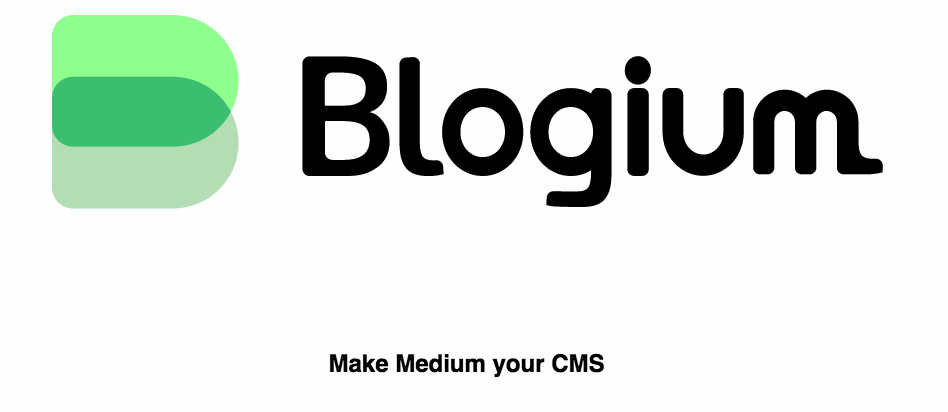
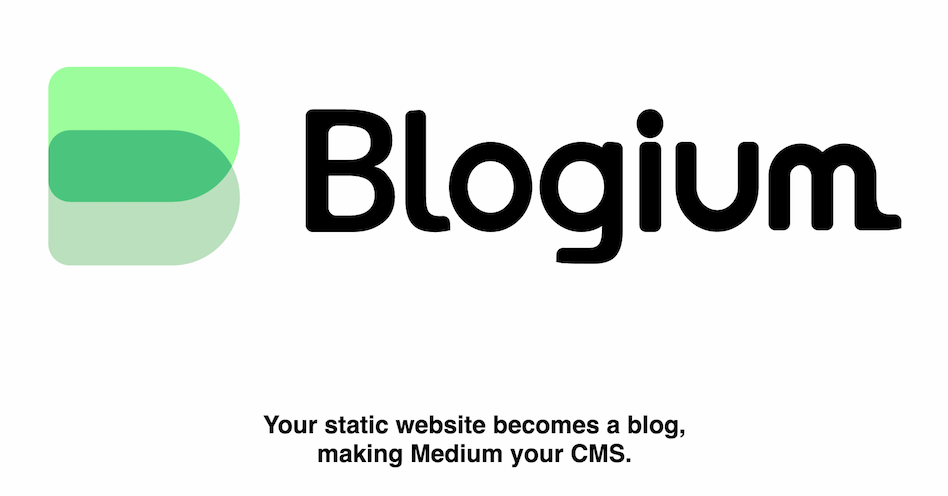
add post link, add fork btn and download, update facebook.png

Changed region(s): [[0.3059, 0.1165, 0.9483, 0.5534], [0.0306, 0.0291, 0.2753, 0.5534], [0.2753, 0.8155, 0.7342, 0.9612]]

diff --git a/index.html b/index.html
@@ -4,12 +4,6 @@
   <meta charset="UTF-8">
   <title>Blogium</title>
 
-  <link rel="shortcut icon" href="assets/images/blogium.ico" type="image/x-icon">
-  <link rel="stylesheet" href="assets/styles/main.css">
-  <link href="bower_components/prism/themes/prism-okaidia.css" rel="stylesheet" />
-
-  <script async defer src="https://buttons.github.io/buttons.js"></script>
-  <script async defer src="bower_components/prism/prism.js"></script>
   <meta name="viewport" content="width=device-width, initial-scale=1">
   <meta name="description" content="With one script you can have your personal blog, with responsive edtior dashboard and SEO optimized. Add Blogium to your stack and turn Medium into your personal CMS.">
 
@@ -18,6 +12,12 @@
   <meta property="og:url" content="https://atilafassina.github.io/blogium/">
   <meta property="og:image" content="https://atilafassina.github.io/blogium/assets/images/facebook.png">
 
+  <link rel="shortcut icon" href="assets/images/blogium.ico" type="image/x-icon">
+  <link rel="stylesheet" href="assets/styles/main.css">
+  <link href="bower_components/prism/themes/prism-okaidia.css" rel="stylesheet" />
+
+  <script async defer src="https://buttons.github.io/buttons.js"></script>
+  <script async defer src="bower_components/prism/prism.js"></script>
 </head>
 <body>
 <header class="top">
@@ -93,14 +93,21 @@
       </svg>
     </h1>
     <strong class="subtitle">
-      Make Medium your CMS
+      Your static website becomes a blog,
+    </strong>
+    <strong class="subtitle">
+      making Medium your CMS.
     </strong>
   </header>
   <aside class="gh-star">
-    <a class="github-button" href="https://github.com/atilafassina/blogium" data-style="mega" data-count-href="/atilafassina/blogium/stargazers" data-count-api="/repos/atilafassina/blogium#stargazers_count" data-count-aria-label="# stargazers on GitHub" aria-label="Star atilafassina/blogium on GitHub">Star</a>
+    <a class="github-button" href="https://github.com/atilafassina/blogium" data-icon="octicon-star" data-style="mega" data-count-href="/atilafassina/blogium/stargazers" data-count-api="/repos/atilafassina/blogium#stargazers_count" data-count-aria-label="# stargazers on GitHub" aria-label="Star atilafassina/blogium on GitHub">Star</a>
+    <a class="github-button" href="https://github.com/atilafassina/blogium/fork" data-icon="octicon-repo-forked" data-style="mega" data-count-href="/atilafassina/blogium/network" data-count-api="/repos/atilafassina/blogium#forks_count" data-count-aria-label="# forks on GitHub" aria-label="Fork atilafassina/blogium on GitHub">Fork</a>
   </aside>
 
   <article class="contentWrap">
+  <a href="https://medium.com/@atilafassina/introducing-blogium-d6ee1a343919#.y9qihlr29" class="bigLink" target="_blank">
+    ✎ Introducing: Blogium
+  </a>
   <h2 id="install">
     Install
   </h2>
@@ -108,6 +115,7 @@
     as a script inclusion
   </p>
   <pre><code class="language-markup"> &lt;script src="./dist/blogium.js"></script></code></pre>
+  <a class="github-button" href="https://github.com/atilafassina/blogium/archive/master.zip" data-icon="octicon-cloud-download" aria-label="Download atilafassina/blogium on GitHub">Download</a>
   <p>
   as an npm package
   </p>
@@ -117,7 +125,6 @@
   </p>
 <pre><code class="language-bash">bower i --save blogium</code></pre>
 
-  Alternatively, you can always download a .zip file
 
     <h2 id="get-started">
       Get started
@@ -192,6 +199,9 @@ blog.on('blogium.error',   response => { console.error('Oops, something has gone
   <h2>
     Check the demo! 😈
   </h2>
+  <p>
+    Replace <strong>@Medium</strong> with any username you want to test and fire away!
+  </p>
     <nav class="changeUser">
       <span class="changeUser_txt" data-wide-text="http://medium.com/rss/" data-small-text="User:"></span>
       <input id="usernameRequest" class="changeUser_input" type="text" placeholder="@Medium">

diff --git a/assets/styles/main.css b/assets/styles/main.css
@@ -74,6 +74,13 @@ a:hover {
   }
 }
 
+.bigLink {
+  display: flex;
+  justify-content: center;
+  margin-top: 3em;
+  font-size: 2rem;
+}
+
 .demo_postList {
   min-height: 30vh;
   max-height: 80vh;
